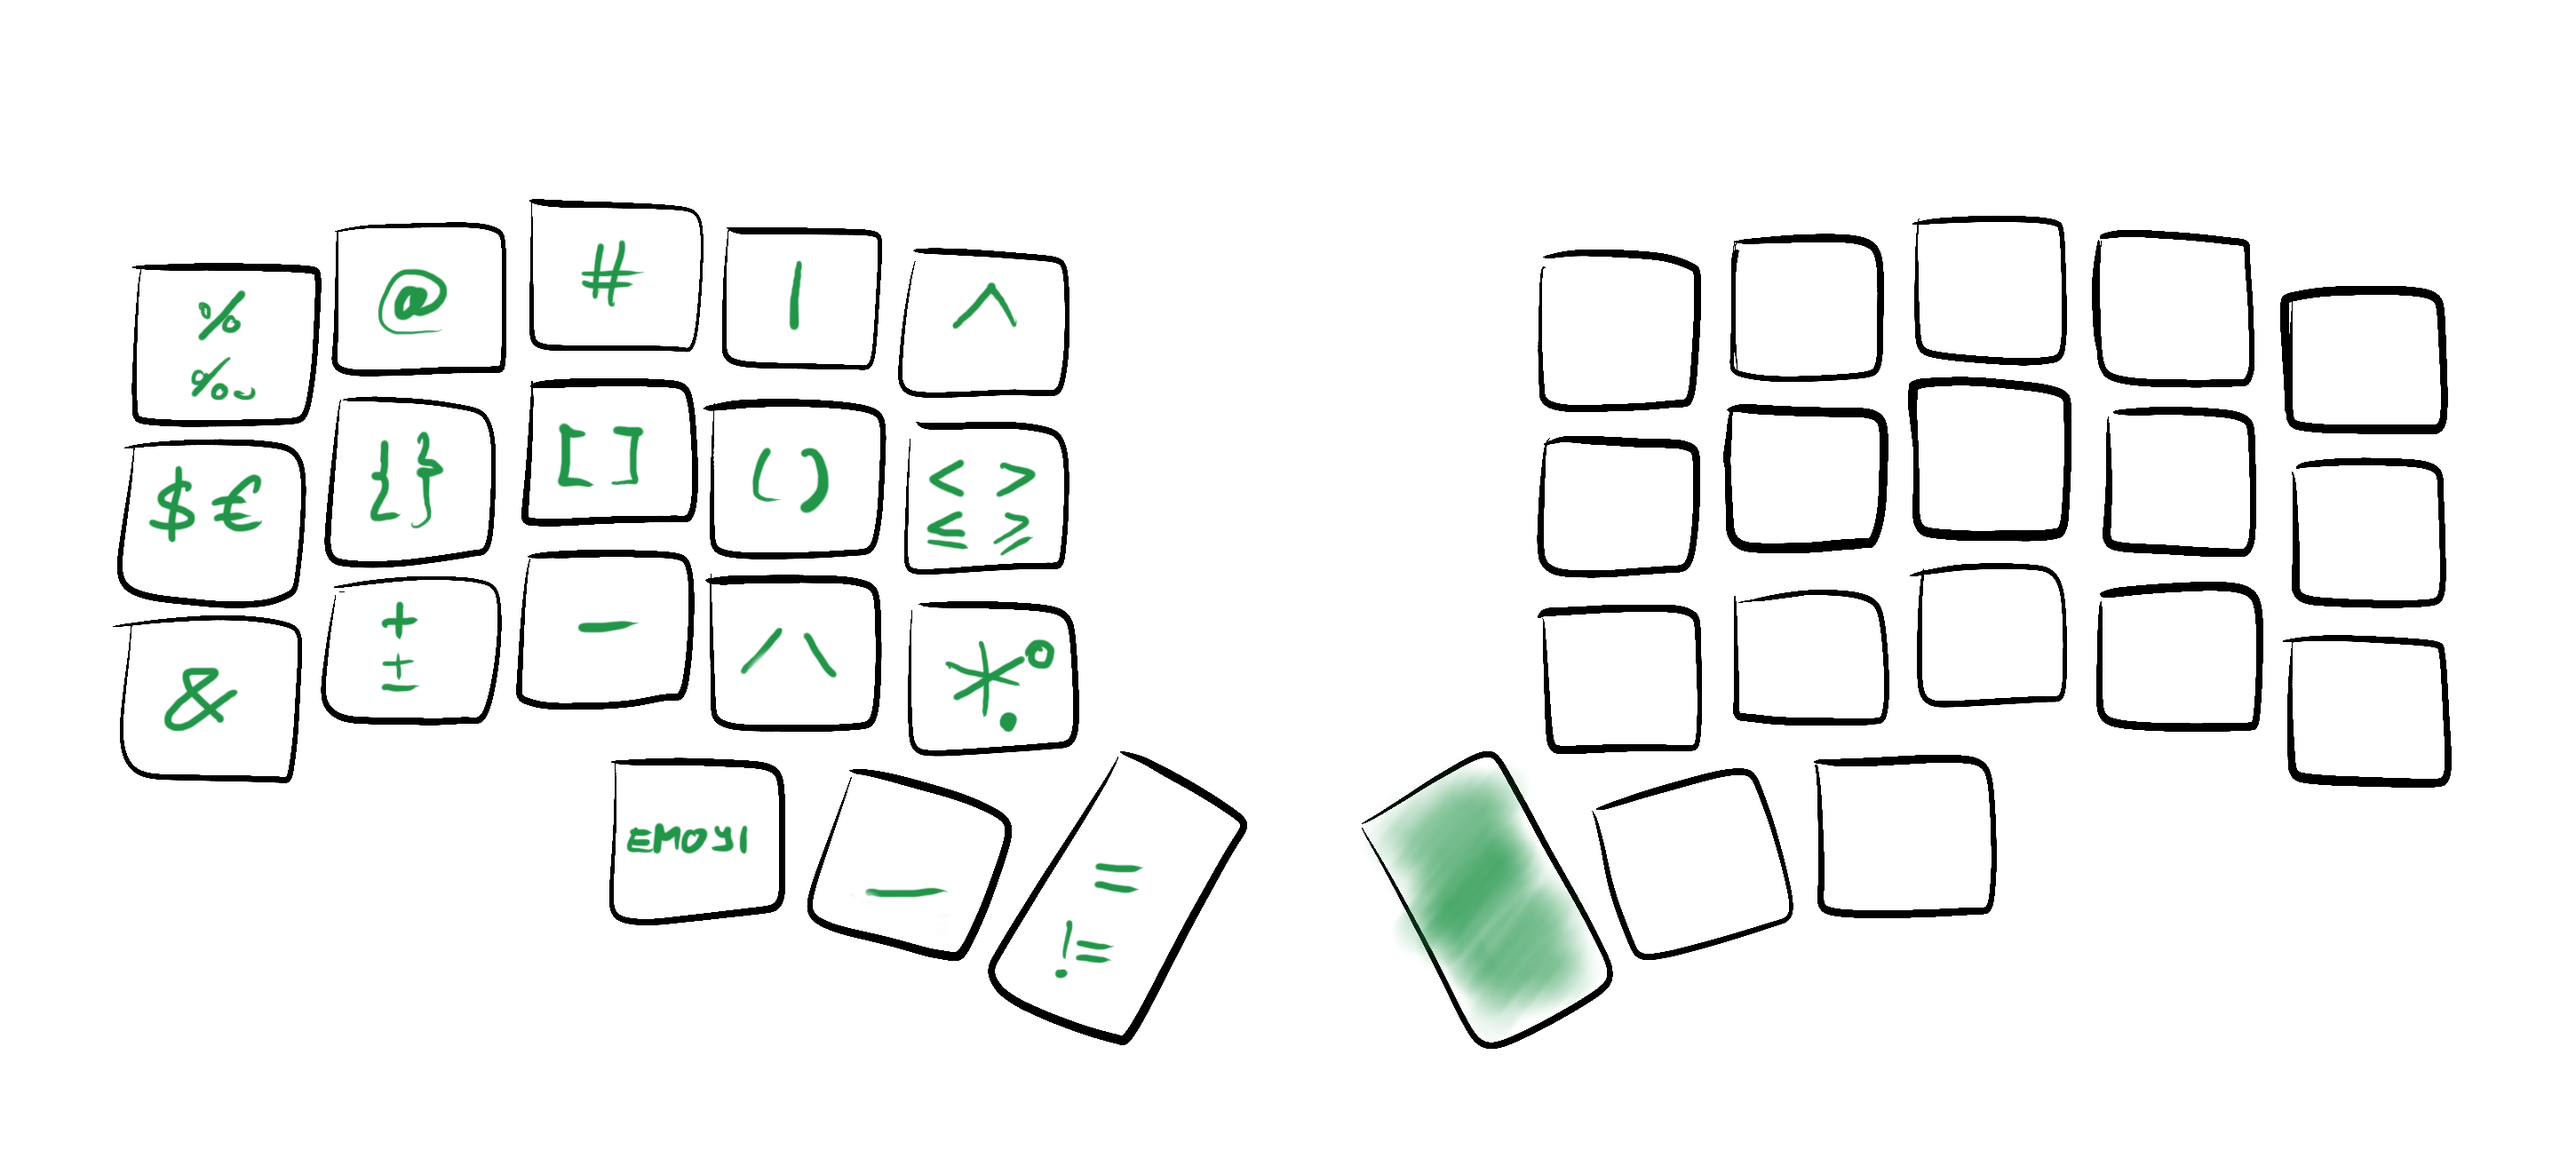
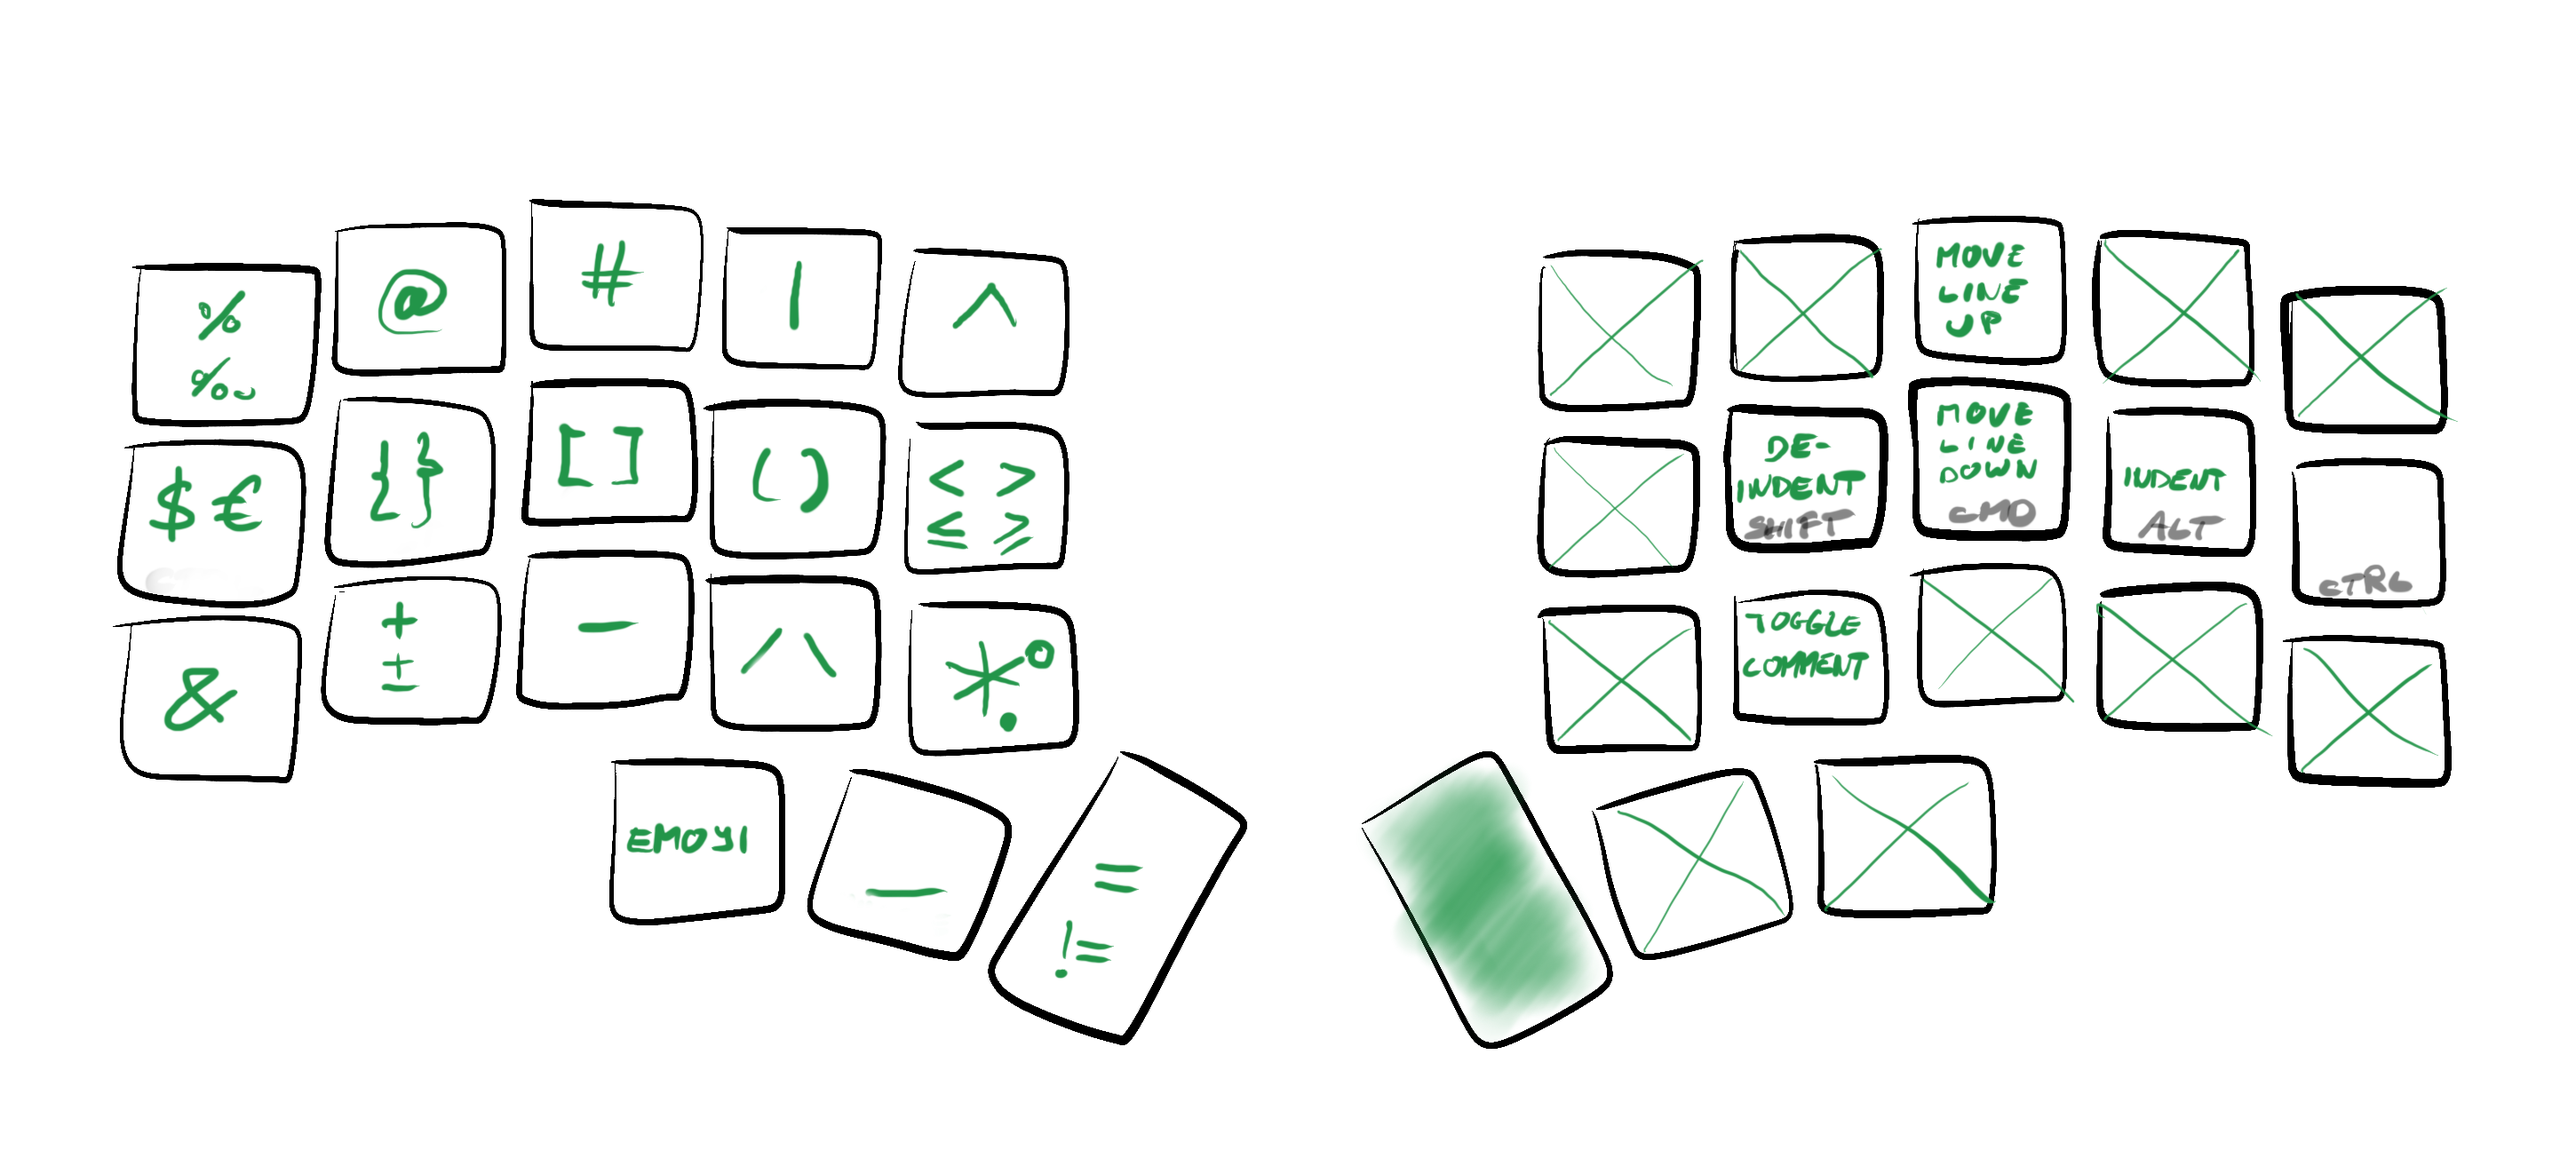
added code mappings

diff --git a/README.md b/README.md
@@ -35,7 +35,7 @@ _Not everything is fully implemented yet_
 ![](images/layers/bluetooth.png)
 
 
-### Symbols
+### Symbols and code
 
 ![](images/layers/symbols.png)
 
